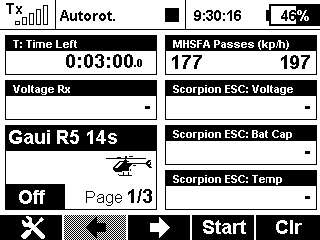
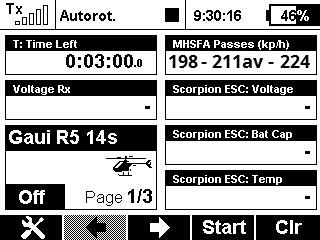
Added average Speed Display

Changed region(s): [[0.5312, 0.2042, 0.8438, 0.2917], [0.875, 0.2333, 0.9688, 0.2917]]

diff --git a/README.md b/README.md
@@ -3,7 +3,7 @@ Jeti Lua Applications for Speed Freaks and Geeks. To download click on the "Clon
 
 * 17th Oct 2017 - Rev 0 : Initial Release.
 * 17th Dec 2017 - Rev 1 : Updated user Manual to correct the variable that should be selected for Headspeed display on the transmitter.
-* 22nd Dec 2017 - Rev 2 : Added notes about not starting logging of both jeti data and headspeed at the same time.
+* 22nd Dec 2017 - Rev 2 : Added notes about not starting logging of both jeti data and headspeed at the same time. Added average speed to MHSFAApp display.
 
 MHSFAApp
 ------
